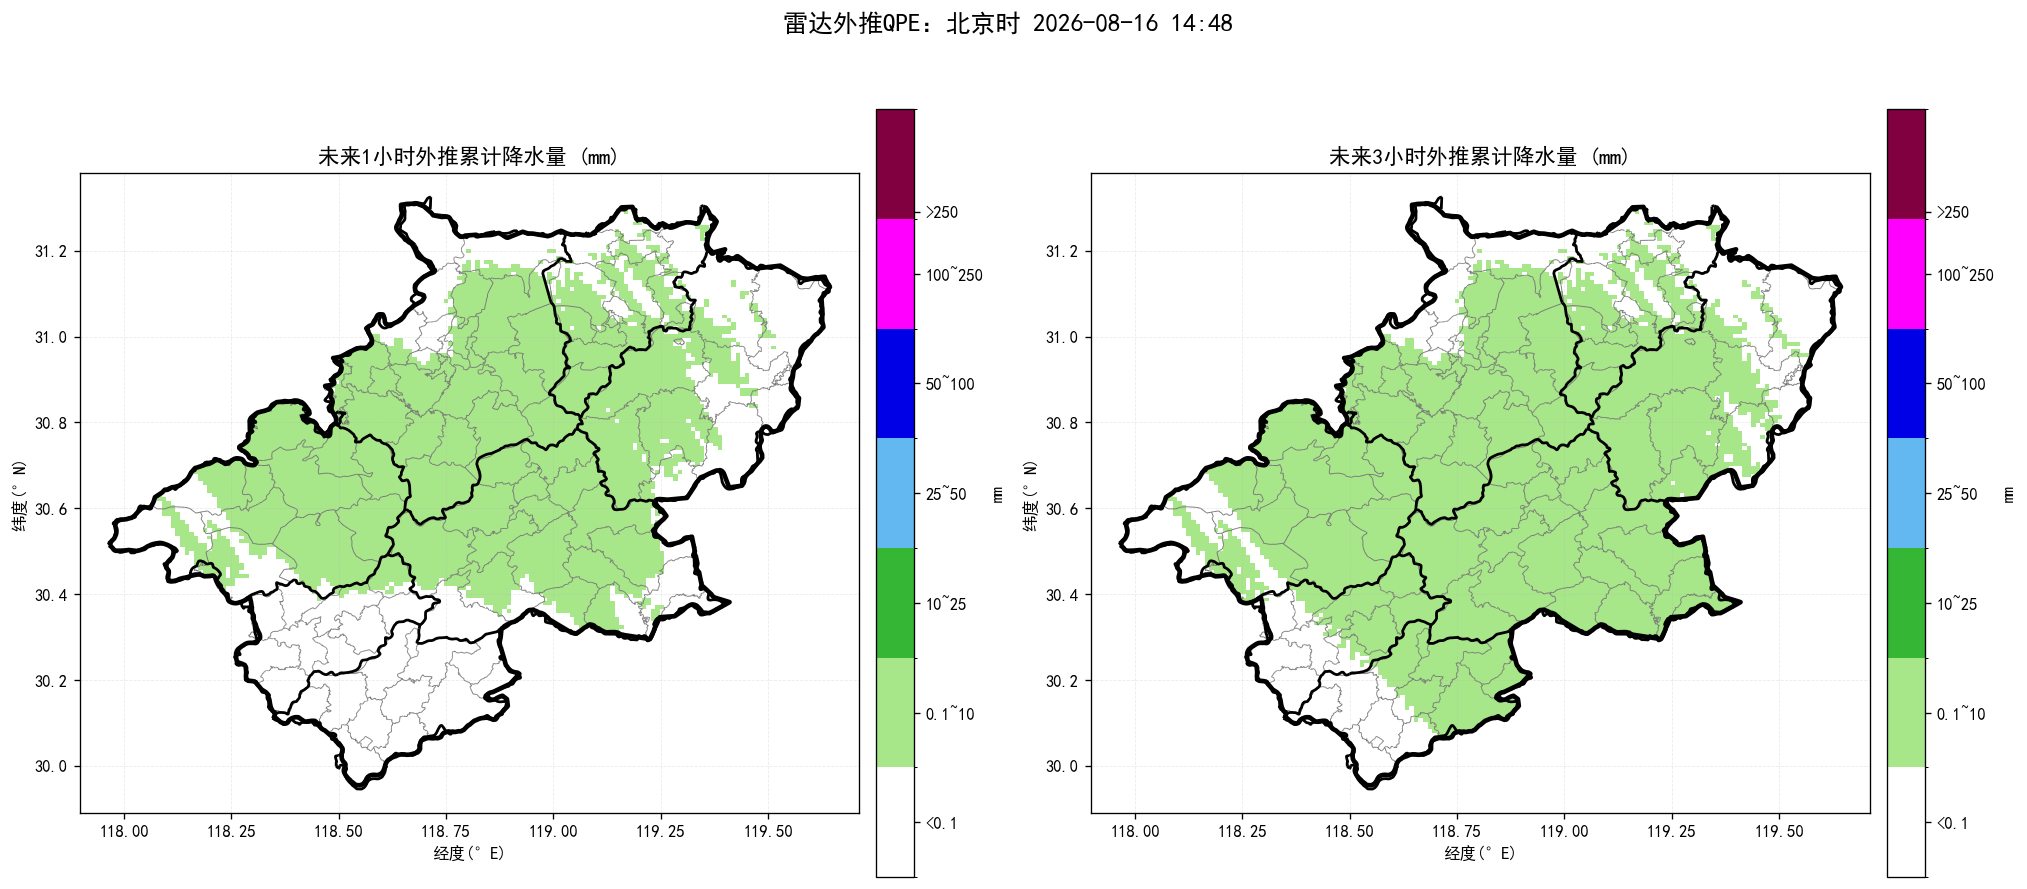
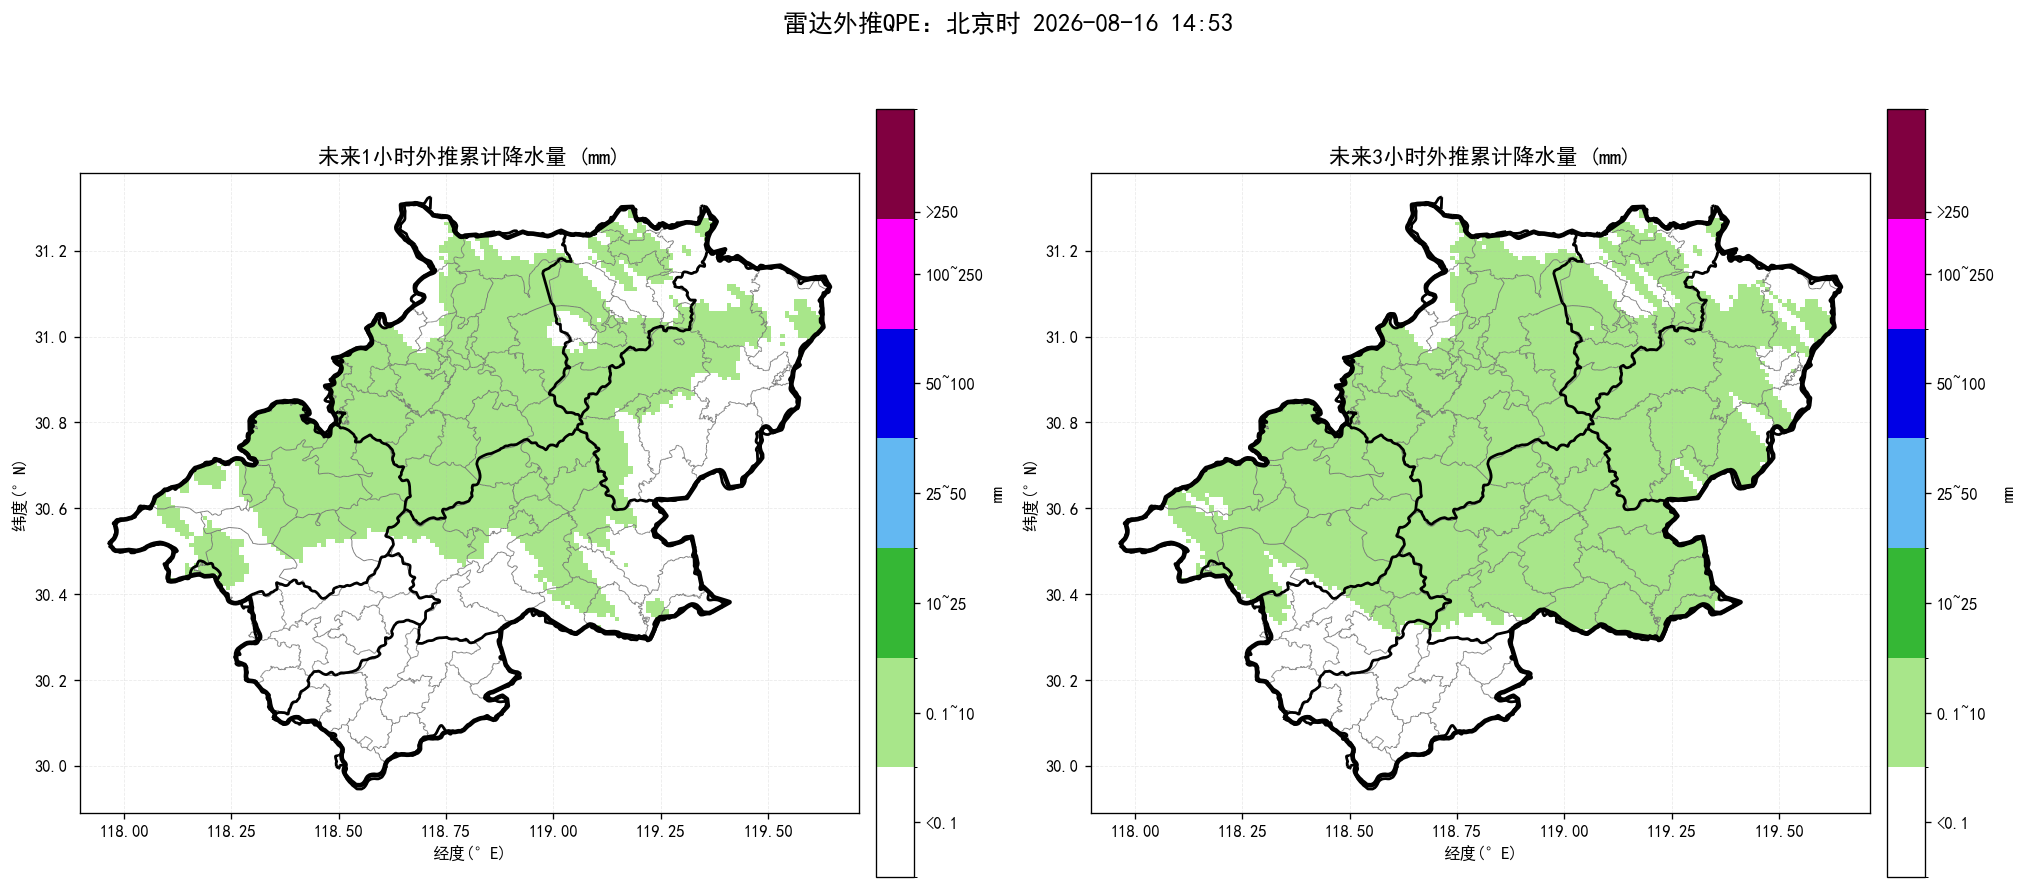
update nowcast products

diff --git a/index.html b/index.html
@@ -15,12 +15,12 @@ img.product{display:block;width:100%;height:auto;margin:10px auto 26px;border:1p
 .footer{font-size:13px;color:#777;text-align:center;margin-top:30px}
 @media(max-width:700px){.sheet{margin:0;padding:18px 15px}.alert-title{font-size:22px}.county-line{font-size:17px}.prob{font-size:18px}}
 </style></head><body><main class="sheet">
-<div class="time">起报时间：北京时 2026-08-16 14:48</div>
+<div class="time">起报时间：北京时 2026-08-16 14:53</div>
 <div class="alert-title">未来一小时降水量超过 20 毫米的乡镇：</div><div class="county-line">无</div>
 <div class="alert-title">未来三小时降水量超过 50 毫米的乡镇：</div><div class="county-line">无</div>
 <div class="alert-title">未来三小时雷暴大风（组合反射率 > 55 dBZ）的乡镇：</div><div class="county-line">无</div>
-<div class="prob">最大降水量概率预估：宣城市范围内未来三小时降水偏小，最大预报约0.9毫米，暂不进行50/80/100毫米概率预估。</div>
-<div class="section-title">未来降水预报图：</div><img class="product" src="Nowcast3h_QPE_BJT20260816144809.png" alt="未来降水预报图">
+<div class="prob">最大降水量概率预估：宣城市范围内未来三小时降水偏小，最大预报约1.4毫米，暂不进行50/80/100毫米概率预估。</div>
+<div class="section-title">未来降水预报图：</div><img class="product" src="Nowcast3h_QPE_BJT20260816145348.png" alt="未来降水预报图">
 <div class="section-title">未来三小时组合反射率图：</div><img class="product" src="未来3小时组合反射率.png" alt="未来三小时组合反射率图">
 <div class="section-title">未来三小时雷暴大风图：</div><img class="product" src="未来3小时雷暴大风.png" alt="未来三小时雷暴大风图">
 <div class="footer">页面每 60 秒自动刷新；产品由雷达短临外推程序自动生成。</div>
